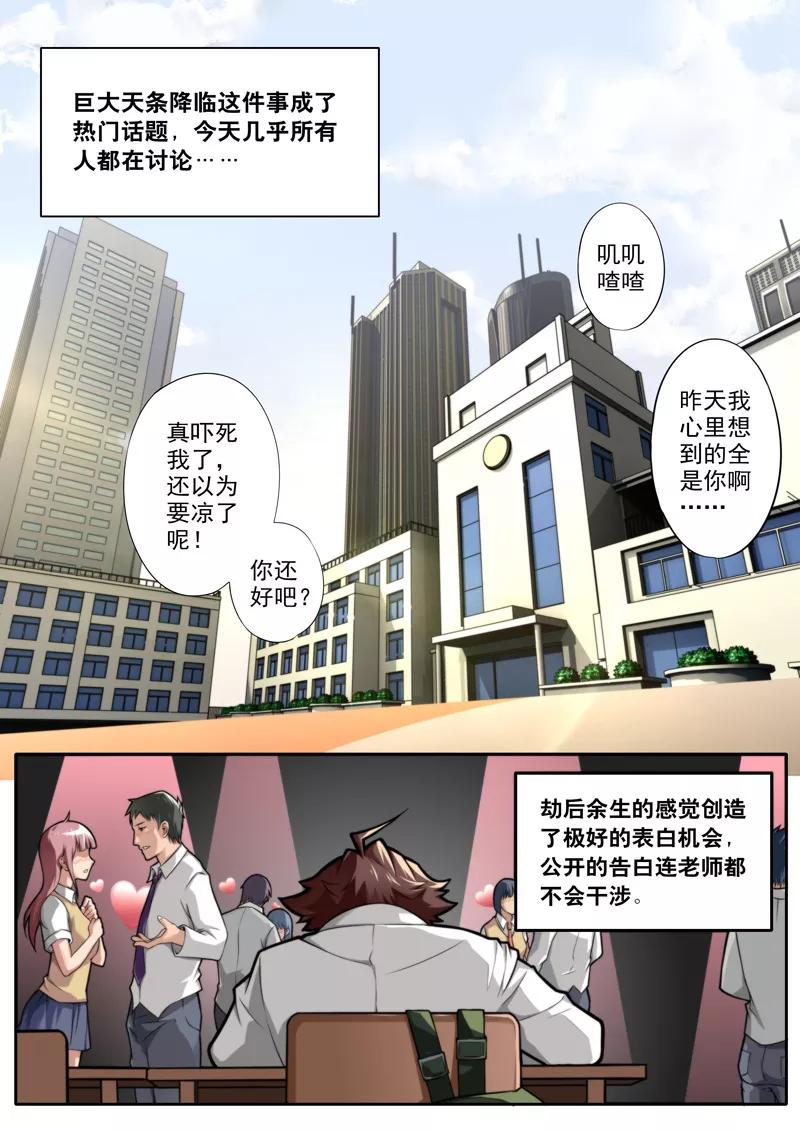
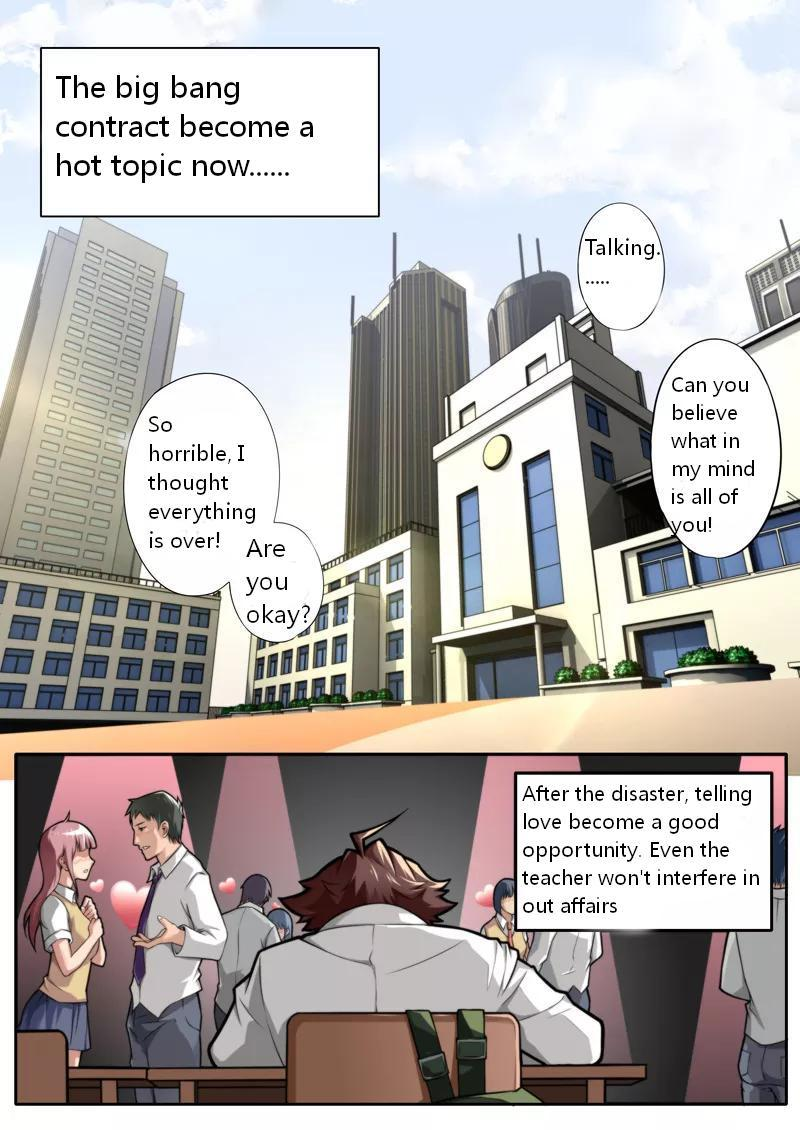
God At Random chapter 11

diff --git a/12431/README.md b/12431/README.md
@@ -12,7 +12,7 @@
 - [Chapter 8](./8/README.md)
 - [Chapter 9 (translated)](./9/README.md)
 - [Chapter 10 (translated)](./10/README.md)
-- [Chapter 11](./11/README.md)
+- [Chapter 11 (translated)](./11/README.md)
 - [Chapter 12](./12/README.md)
 - [Chapter 13](./13/README.md)
 - [Chapter 14](./14/README.md)

diff --git a/README.md b/README.md
@@ -8,7 +8,7 @@ Enjoy it. 😏 😏 😏
 
 The following comics are being updated and translated
 
--   [God At Random 兼职神仙](./12431/README.md) \(Chapter 10\) 🔥
+-   [God At Random 兼职神仙](./12431/README.md) \(Chapter 11\) 🔥
 
 ## Youtube ![youtube](./icons/youtube.png)
 
